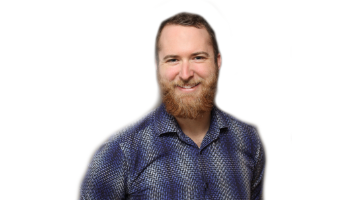
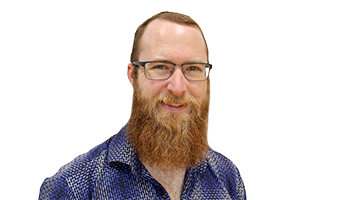
20240907
Update personal photo and about header
Update CU URL

diff --git a/media.html b/media.html
@@ -207,18 +207,17 @@
 					<a href="https://magasinetfilter.se/reportage/for-egen-maskin/" target="_blank"><img class="rounded" width="450" height="255" src="https://magasinetfilter.se/wp-content/uploads/2021/03/robotproteser_cybathlon_tonney_skruvalampa-2048x1152.jpg"></img></a>
 				</div>
 			</div>
-			<div class="row">
+			<!--<div class="row">
 				<div class="col-sm-6">
 					<h2 title="Göteborgs-Posten">🇸🇪 The Gothenburg Post 🇸🇪</h2>
 					<h3 title="Tänkande protes från Göteborg förändrar livet för amputerad">Thought-controlled prosthesis from Gothenburg changes the life of amputees</h3>
 					<p title="Ulf Karlsson blev av med sin högerarm för länge sedan.">Ulf Karlsson lost his right arm a long time ago.</p>
 					<p title="Nu har han en robotarm som han kontrollerar direkt med sina tankar - och som får honom att känna sig hel igen.">Now he has a robotic arm that he controls directly with his thoughts - and that makes him feel whole again.</p>
-					<!--<p>Tekniken har utvecklats i Göteborg och Ulf Karlsson är en av fem personer i världen some lever med den.</p>-->
 				</div>
 				<div class="col-sm-6">
 					<a href="https://www.gp.se/nyheter/g%C3%B6teborg/robotarmen-gjorde-honom-hel-igen-utvecklad-i-g%C3%B6teborg-1.42660690" target="_blank"><img class="rounded" width="450" height="255" src="https://www.gp.se/image/policy:1.44233221:1617718405/image.jpg?f=Wide&w=1200&$p$f$w=834285a"></img></a>
 				</div>
-			</div>
+			</div>-->
 			<div class="row">
 				<div class="col-sm-6">
 					<h2 title="Mölndals-Posten">🇸🇪 The Mölndal Post 🇸🇪</h2>
@@ -237,7 +236,7 @@
 
 		<div id="footer">
 			<div class="d-flex justify-content-around">
-				<div class="p-2"><a href="https://medschool.cuanschutz.edu/orthopedics/clinical-services/cu-limb-restoration-program/osseointegration/bone-anchored-limb-research-group" target="_blank"><img src="assets/images/culogo.png" title="Bone-Anchored Limb Research Group" style="filter: brightness(0%);" height="48px"></img></a></div>
+				<div class="p-2"><a href="https://som.cuanschutz.edu/Profiles/Faculty/Profile/37952" target="_blank"><img src="assets/images/culogo.png" title="Bone-Anchored Limb Research Group" style="filter: brightness(0%);" height="48px"></img></a></div>
 				<div class="p-2"><a href="https://twitter.com/EricJEarley" style="color:#111111;" target="_blank"><i class="fab fa-twitter-square fa-3x" title="Twitter"></i></a></div>
 				<div class="p-2"><a href="https://www.instagram.com/ericjearley/" style="color:#111111;" target="_blank"><i class="fab fa-instagram fa-3x" title="Instagram"></i></a></div>
 				<div class="p-2"><a href="https://www.linkedin.com/in/ericjearley" style="color:#111111;" target="_blank"><i class="fab fa-linkedin fa-3x" title="LinkedIn"></i></a></a></div>

diff --git a/index.html b/index.html
@@ -92,6 +92,9 @@
 						<h2>Writer</h2>
 					</div>
 					<div class="carousel-item">
+						<h2>Editor</h2>
+					</div>
+					<div class="carousel-item">
 						<h2>Cyclist</h2>
 					</div>
 					<div class="carousel-item">
@@ -120,9 +123,9 @@
 				<h3> <i class="fa fa-book"></i> Research</h3>
 			</div>
 			<div class="col-sm-4">
-				<a href="videos.html"><img class="img-fluid rounded" src="assets/images/sci-inspiration.png" style="border-style: solid; border-color: 000000;" alt="Science Videos"></img></a>
+				<a href="media.html"><img class="img-fluid rounded" src="https://www.svtstatic.se/image/custom/1200/33873438/1642175761" style="border-style: solid; border-color: 000000;" alt="Media Coverage"></img></a>
 				<br>
-				<h3> <i class="fa fa-play-circle-o"></i> Outreach</h3>
+				<h3> <i class="fa fa-play-circle-o"></i>Media Coverage</h3>
 			</div>
 		</div>
 		
@@ -137,7 +140,7 @@
 
 		<div id="footer">
 			<div class="d-flex justify-content-around">
-				<div class="p-2"><a href="https://medschool.cuanschutz.edu/orthopedics/clinical-services/cu-limb-restoration-program/osseointegration/bone-anchored-limb-research-group" target="_blank"><img src="assets/images/culogo.png" title="Bone-Anchored Limb Research Group" style="filter: brightness(0%);" height="48px"></img></a></div>
+				<div class="p-2"><a href="https://som.cuanschutz.edu/Profiles/Faculty/Profile/37952" target="_blank"><img src="assets/images/culogo.png" title="Bone-Anchored Limb Research Group" style="filter: brightness(0%);" height="48px"></img></a></div>
 				<div class="p-2"><a href="https://twitter.com/EricJEarley" style="color:#111111;" target="_blank"><i class="fab fa-twitter-square fa-3x" title="Twitter"></i></a></div>
 				<div class="p-2"><a href="https://www.instagram.com/ericjearley/" style="color:#111111;" target="_blank"><i class="fab fa-instagram fa-3x" title="Instagram"></i></a></div>
 				<div class="p-2"><a href="https://www.linkedin.com/in/ericjearley" style="color:#111111;" target="_blank"><i class="fab fa-linkedin fa-3x" title="LinkedIn"></i></a></a></div>

diff --git a/about.html b/about.html
@@ -462,7 +462,7 @@
 
 		<div id="footer">
 			<div class="d-flex justify-content-around">
-				<div class="p-2"><a href="https://medschool.cuanschutz.edu/orthopedics/clinical-services/cu-limb-restoration-program/osseointegration/bone-anchored-limb-research-group" target="_blank"><img src="assets/images/culogo.png" title="Bone-Anchored Limb Research Group" style="filter: brightness(0%);" height="48px"></img></a></div>
+				<div class="p-2"><a href="https://som.cuanschutz.edu/Profiles/Faculty/Profile/37952" target="_blank"><img src="assets/images/culogo.png" title="Bone-Anchored Limb Research Group" style="filter: brightness(0%);" height="48px"></img></a></div>
 				<div class="p-2"><a href="https://twitter.com/EricJEarley" style="color:#111111;" target="_blank"><i class="fab fa-twitter-square fa-3x" title="Twitter"></i></a></div>
 				<div class="p-2"><a href="https://www.instagram.com/ericjearley/" style="color:#111111;" target="_blank"><i class="fab fa-instagram fa-3x" title="Instagram"></i></a></div>
 				<div class="p-2"><a href="https://www.linkedin.com/in/ericjearley" style="color:#111111;" target="_blank"><i class="fab fa-linkedin fa-3x" title="LinkedIn"></i></a></a></div>

diff --git a/collabs.html b/collabs.html
@@ -180,7 +180,7 @@
 
 		<div id="footer">
 			<div class="d-flex justify-content-around">
-				<div class="p-2"><a href="https://medschool.cuanschutz.edu/orthopedics/clinical-services/cu-limb-restoration-program/osseointegration/bone-anchored-limb-research-group" target="_blank"><img src="assets/images/culogo.png" title="Bone-Anchored Limb Research Group" style="filter: brightness(0%);" height="48px"></img></a></div>
+				<div class="p-2"><a href="https://som.cuanschutz.edu/Profiles/Faculty/Profile/37952" target="_blank"><img src="assets/images/culogo.png" title="Bone-Anchored Limb Research Group" style="filter: brightness(0%);" height="48px"></img></a></div>
 				<div class="p-2"><a href="https://twitter.com/EricJEarley" style="color:#111111;" target="_blank"><i class="fab fa-twitter-square fa-3x" title="Twitter"></i></a></div>
 				<div class="p-2"><a href="https://www.instagram.com/ericjearley/" style="color:#111111;" target="_blank"><i class="fab fa-instagram fa-3x" title="Instagram"></i></a></div>
 				<div class="p-2"><a href="https://www.linkedin.com/in/ericjearley" style="color:#111111;" target="_blank"><i class="fab fa-linkedin fa-3x" title="LinkedIn"></i></a></a></div>

diff --git a/photography.html b/photography.html
@@ -187,7 +187,7 @@
 
 		<div id="footer">
 			<div class="d-flex justify-content-around">
-				<div class="p-2"><a href="https://medschool.cuanschutz.edu/orthopedics/clinical-services/cu-limb-restoration-program/osseointegration/bone-anchored-limb-research-group" target="_blank"><img src="assets/images/culogo.png" title="Bone-Anchored Limb Research Group" style="filter: brightness(0%);" height="48px"></img></a></div>
+				<div class="p-2"><a href="https://som.cuanschutz.edu/Profiles/Faculty/Profile/37952" target="_blank"><img src="assets/images/culogo.png" title="Bone-Anchored Limb Research Group" style="filter: brightness(0%);" height="48px"></img></a></div>
 				<div class="p-2"><a href="https://twitter.com/EricJEarley" style="color:#111111;" target="_blank"><i class="fab fa-twitter-square fa-3x" title="Twitter"></i></a></div>
 				<div class="p-2"><a href="https://www.instagram.com/ericjearley/" style="color:#111111;" target="_blank"><i class="fab fa-instagram fa-3x" title="Instagram"></i></a></div>
 				<div class="p-2"><a href="https://www.linkedin.com/in/ericjearley" style="color:#111111;" target="_blank"><i class="fab fa-linkedin fa-3x" title="LinkedIn"></i></a></a></div>

diff --git a/public_talks.html b/public_talks.html
@@ -166,7 +166,7 @@
 
 		<div id="footer">
 			<div class="d-flex justify-content-around">
-				<div class="p-2"><a href="https://medschool.cuanschutz.edu/orthopedics/clinical-services/cu-limb-restoration-program/osseointegration/bone-anchored-limb-research-group" target="_blank"><img src="assets/images/culogo.png" title="Bone-Anchored Limb Research Group" style="filter: brightness(0%);" height="48px"></img></a></div>
+				<div class="p-2"><a href="https://som.cuanschutz.edu/Profiles/Faculty/Profile/37952" target="_blank"><img src="assets/images/culogo.png" title="Bone-Anchored Limb Research Group" style="filter: brightness(0%);" height="48px"></img></a></div>
 				<div class="p-2"><a href="https://twitter.com/EricJEarley" style="color:#111111;" target="_blank"><i class="fab fa-twitter-square fa-3x" title="Twitter"></i></a></div>
 				<div class="p-2"><a href="https://www.instagram.com/ericjearley/" style="color:#111111;" target="_blank"><i class="fab fa-instagram fa-3x" title="Instagram"></i></a></div>
 				<div class="p-2"><a href="https://www.linkedin.com/in/ericjearley" style="color:#111111;" target="_blank"><i class="fab fa-linkedin fa-3x" title="LinkedIn"></i></a></a></div>

diff --git a/publications.html b/publications.html
@@ -827,7 +827,7 @@
 
 		<div id="footer">
 			<div class="d-flex justify-content-around">
-				<div class="p-2"><a href="https://medschool.cuanschutz.edu/orthopedics/clinical-services/cu-limb-restoration-program/osseointegration/bone-anchored-limb-research-group" target="_blank"><img src="assets/images/culogo.png" title="Bone-Anchored Limb Research Group" style="filter: brightness(0%);" height="48px"></img></a></div>
+				<div class="p-2"><a href="https://som.cuanschutz.edu/Profiles/Faculty/Profile/37952" target="_blank"><img src="assets/images/culogo.png" title="Bone-Anchored Limb Research Group" style="filter: brightness(0%);" height="48px"></img></a></div>
 				<div class="p-2"><a href="https://twitter.com/EricJEarley" style="color:#111111;" target="_blank"><i class="fab fa-twitter-square fa-3x" title="Twitter"></i></a></div>
 				<div class="p-2"><a href="https://www.instagram.com/ericjearley/" style="color:#111111;" target="_blank"><i class="fab fa-instagram fa-3x" title="Instagram"></i></a></div>
 				<div class="p-2"><a href="https://www.linkedin.com/in/ericjearley" style="color:#111111;" target="_blank"><i class="fab fa-linkedin fa-3x" title="LinkedIn"></i></a></a></div>

diff --git a/research.html b/research.html
@@ -899,7 +899,7 @@
 
 		<div id="footer">
 			<div class="d-flex justify-content-around">
-				<div class="p-2"><a href="https://medschool.cuanschutz.edu/orthopedics/clinical-services/cu-limb-restoration-program/osseointegration/bone-anchored-limb-research-group" target="_blank"><img src="assets/images/culogo.png" title="Bone-Anchored Limb Research Group" style="filter: brightness(0%);" height="48px"></img></a></div>
+				<div class="p-2"><a href="https://som.cuanschutz.edu/Profiles/Faculty/Profile/37952" target="_blank"><img src="assets/images/culogo.png" title="Bone-Anchored Limb Research Group" style="filter: brightness(0%);" height="48px"></img></a></div>
 				<div class="p-2"><a href="https://twitter.com/EricJEarley" style="color:#111111;" target="_blank"><i class="fab fa-twitter-square fa-3x" title="Twitter"></i></a></div>
 				<div class="p-2"><a href="https://www.instagram.com/ericjearley/" style="color:#111111;" target="_blank"><i class="fab fa-instagram fa-3x" title="Instagram"></i></a></div>
 				<div class="p-2"><a href="https://www.linkedin.com/in/ericjearley" style="color:#111111;" target="_blank"><i class="fab fa-linkedin fa-3x" title="LinkedIn"></i></a></a></div>

diff --git a/tabletop.html b/tabletop.html
@@ -134,7 +134,7 @@
 
 		<div id="footer">
 			<div class="d-flex justify-content-around">
-				<div class="p-2"><a href="https://medschool.cuanschutz.edu/orthopedics/clinical-services/cu-limb-restoration-program/osseointegration/bone-anchored-limb-research-group" target="_blank"><img src="assets/images/culogo.png" title="Bone-Anchored Limb Research Group" style="filter: brightness(0%);" height="48px"></img></a></div>
+				<div class="p-2"><a href="https://som.cuanschutz.edu/Profiles/Faculty/Profile/37952" target="_blank"><img src="assets/images/culogo.png" title="Bone-Anchored Limb Research Group" style="filter: brightness(0%);" height="48px"></img></a></div>
 				<div class="p-2"><a href="https://twitter.com/EricJEarley" style="color:#111111;" target="_blank"><i class="fab fa-twitter-square fa-3x" title="Twitter"></i></a></div>
 				<div class="p-2"><a href="https://www.instagram.com/ericjearley/" style="color:#111111;" target="_blank"><i class="fab fa-instagram fa-3x" title="Instagram"></i></a></div>
 				<div class="p-2"><a href="https://www.linkedin.com/in/ericjearley" style="color:#111111;" target="_blank"><i class="fab fa-linkedin fa-3x" title="LinkedIn"></i></a></a></div>

diff --git a/videos.html b/videos.html
@@ -131,7 +131,7 @@
 
 		<div id="footer">
 			<div class="d-flex justify-content-around">
-				<div class="p-2"><a href="https://medschool.cuanschutz.edu/orthopedics/clinical-services/cu-limb-restoration-program/osseointegration/bone-anchored-limb-research-group" target="_blank"><img src="assets/images/culogo.png" title="Bone-Anchored Limb Research Group" style="filter: brightness(0%);" height="48px"></img></a></div>
+				<div class="p-2"><a href="https://som.cuanschutz.edu/Profiles/Faculty/Profile/37952" target="_blank"><img src="assets/images/culogo.png" title="Bone-Anchored Limb Research Group" style="filter: brightness(0%);" height="48px"></img></a></div>
 				<div class="p-2"><a href="https://twitter.com/EricJEarley" style="color:#111111;" target="_blank"><i class="fab fa-twitter-square fa-3x" title="Twitter"></i></a></div>
 				<div class="p-2"><a href="https://www.instagram.com/ericjearley/" style="color:#111111;" target="_blank"><i class="fab fa-instagram fa-3x" title="Instagram"></i></a></div>
 				<div class="p-2"><a href="https://www.linkedin.com/in/ericjearley" style="color:#111111;" target="_blank"><i class="fab fa-linkedin fa-3x" title="LinkedIn"></i></a></a></div>

diff --git a/writing.html b/writing.html
@@ -153,7 +153,7 @@
 
 		<div id="footer">
 			<div class="d-flex justify-content-around">
-				<div class="p-2"><a href="https://medschool.cuanschutz.edu/orthopedics/clinical-services/cu-limb-restoration-program/osseointegration/bone-anchored-limb-research-group" target="_blank"><img src="assets/images/culogo.png" title="Bone-Anchored Limb Research Group" style="filter: brightness(0%);" height="48px"></img></a></div>
+				<div class="p-2"><a href="https://som.cuanschutz.edu/Profiles/Faculty/Profile/37952" target="_blank"><img src="assets/images/culogo.png" title="Bone-Anchored Limb Research Group" style="filter: brightness(0%);" height="48px"></img></a></div>
 				<div class="p-2"><a href="https://twitter.com/EricJEarley" style="color:#111111;" target="_blank"><i class="fab fa-twitter-square fa-3x" title="Twitter"></i></a></div>
 				<div class="p-2"><a href="https://www.instagram.com/ericjearley/" style="color:#111111;" target="_blank"><i class="fab fa-instagram fa-3x" title="Instagram"></i></a></div>
 				<div class="p-2"><a href="https://www.linkedin.com/in/ericjearley" style="color:#111111;" target="_blank"><i class="fab fa-linkedin fa-3x" title="LinkedIn"></i></a></a></div>

diff --git a/demos.html b/demos.html
@@ -68,7 +68,7 @@
 
 		<div id="footer">
 			<div class="d-flex justify-content-around">
-				<div class="p-2"><a href="https://medschool.cuanschutz.edu/orthopedics/clinical-services/cu-limb-restoration-program/osseointegration/bone-anchored-limb-research-group" target="_blank"><img src="assets/images/culogo.png" title="Bone-Anchored Limb Research Group" style="filter: brightness(0%);" height="48px"></img></a></div>
+				<div class="p-2"><a href="https://som.cuanschutz.edu/Profiles/Faculty/Profile/37952" target="_blank"><img src="assets/images/culogo.png" title="Bone-Anchored Limb Research Group" style="filter: brightness(0%);" height="48px"></img></a></div>
 				<div class="p-2"><a href="https://twitter.com/EricJEarley" style="color:#111111;" target="_blank"><i class="fab fa-twitter-square fa-3x" title="Twitter"></i></a></div>
 				<div class="p-2"><a href="https://www.instagram.com/ericjearley/" style="color:#111111;" target="_blank"><i class="fab fa-instagram fa-3x" title="Instagram"></i></a></div>
 				<div class="p-2"><a href="https://www.linkedin.com/in/ericjearley" style="color:#111111;" target="_blank"><i class="fab fa-linkedin fa-3x" title="LinkedIn"></i></a></a></div>
